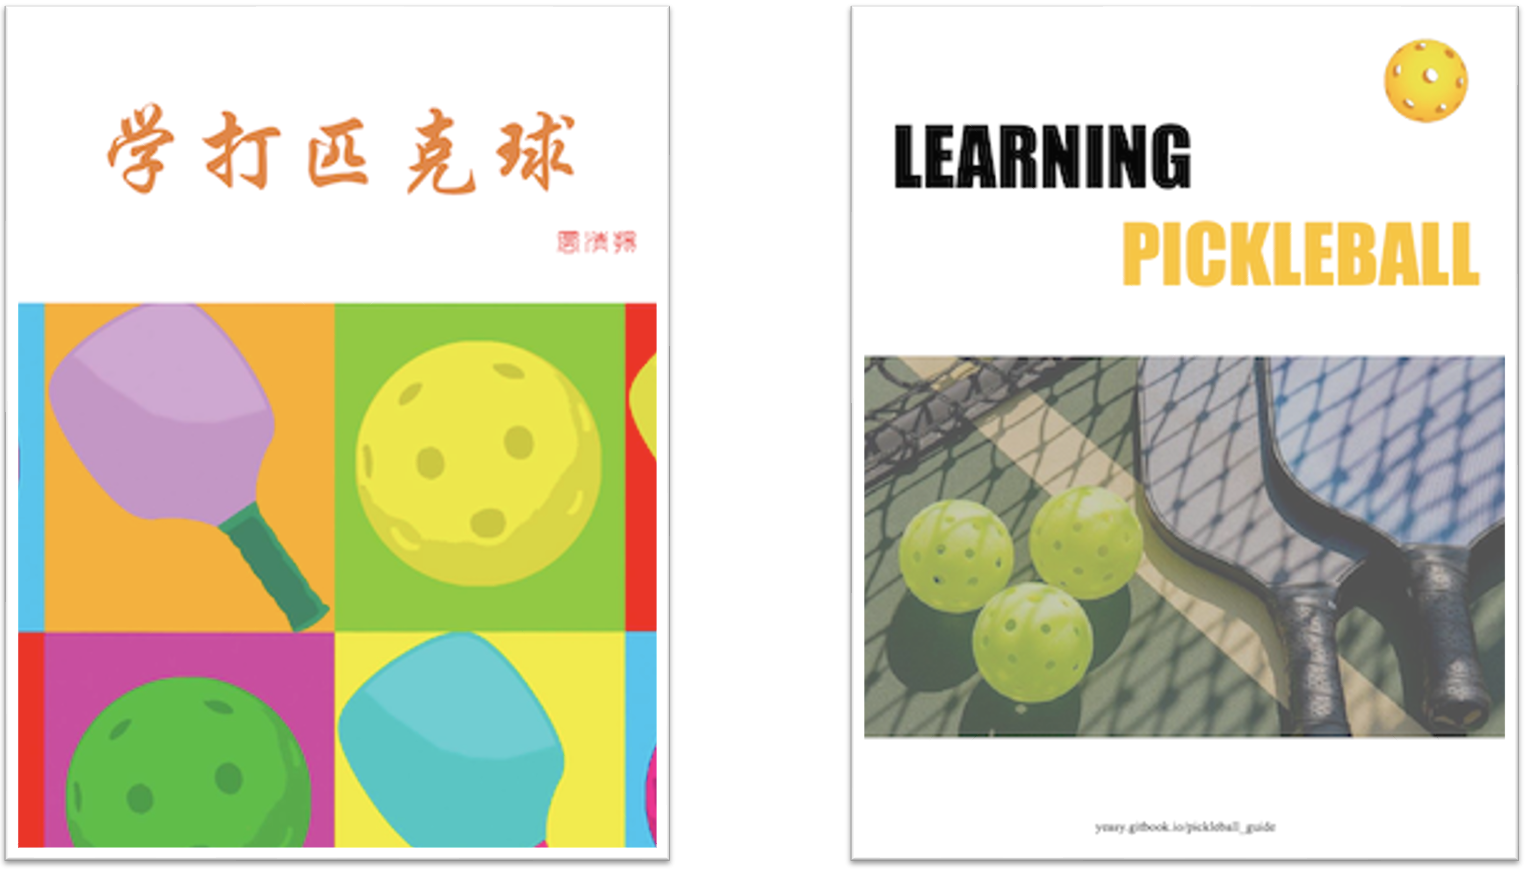
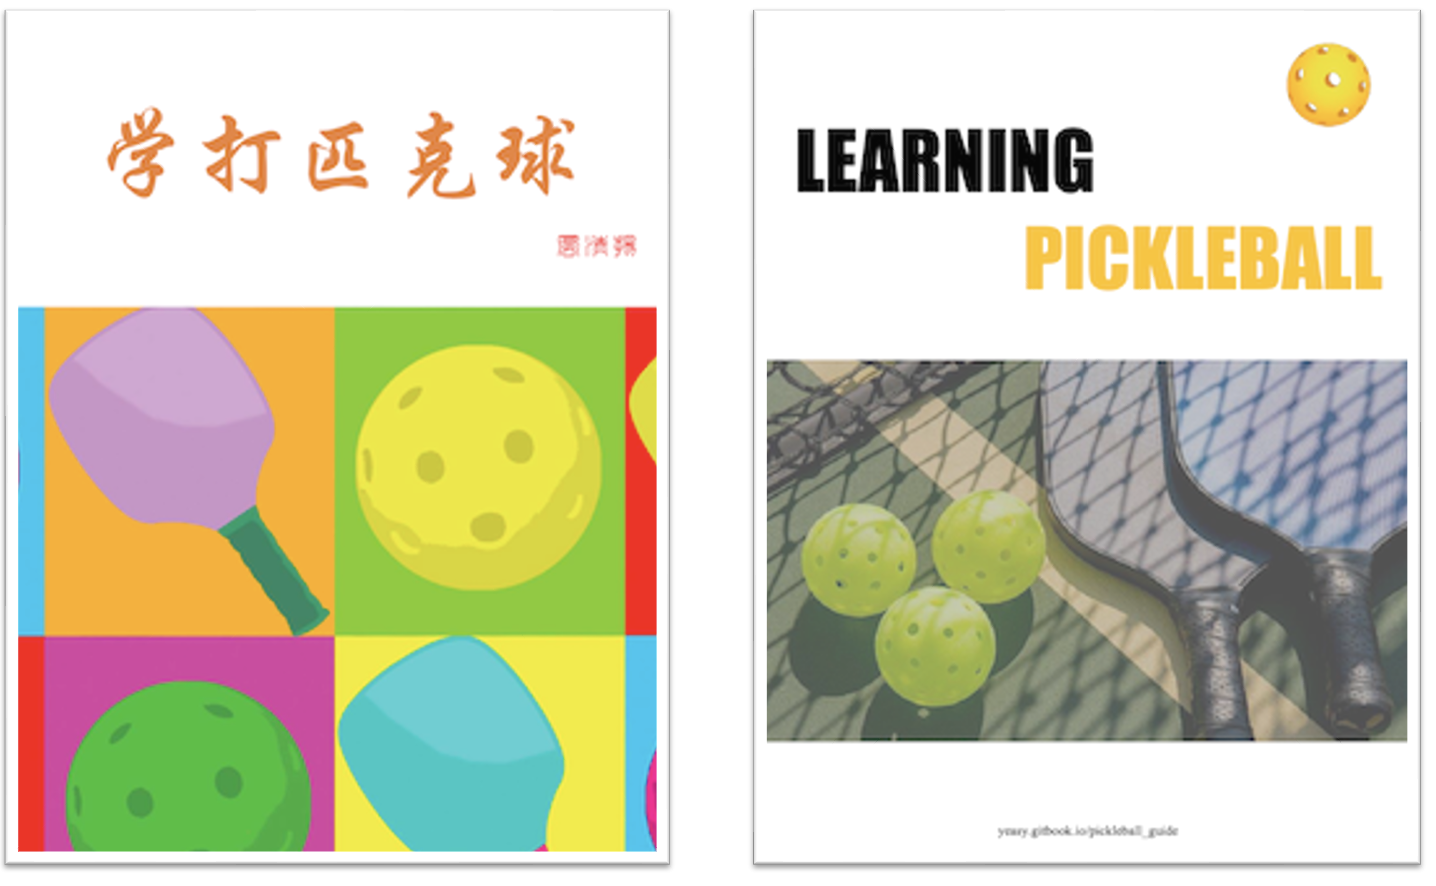
Refine terms

diff --git a/05_dink_cn.md b/05_dink_cn.md
@@ -1,40 +1,40 @@
-# Dink 技术
+# 网前吊球技术
 
-Dink 技术是匹克球比赛中最常见的相持技术，也是放网技术的前提。如果不掌握 Dink 技术，很难进阶较高水平。
+网前吊球技术是匹克球比赛中最常见的相持技术，也是后场吊球技术的前提。如果不掌握 网前吊球技术，很难进阶较高水平。
 
-## 什么是 Dink
+## 什么是网前吊球
 
-Dink 是指在网前将球放入对方非截击区内的动作。通常其弧线较平，过网不高（一个球高度为佳），落入对方非截击区的前半区或区域线附近。
+网前吊球是指在网前将球放入对方非截击区内的动作。通常其弧线较平，过网不高（一个球高度为佳），落入对方非截击区的前半区或区域线附近。
 
-![三种 Dink 线路](_images/dink-target.png)
+![三种网前吊球线路](_images/dink-target.png)
 
-Dink 在双打项目中经常使用。按照目标区域，大致可以分为如下三种：
+网前吊球在双打项目中经常使用。按照目标区域，大致可以分为如下三种：
 
 * 直线球：直线球是指将球打到自己所面向的对手区域。例如，自己站位在左半球，将球放入对方的右半区内。直线球通常更容易控制，但可能出现轨迹较高或落点较远情况，容易被对方进攻；
 * 斜线球：斜线球是指将球打到交叉的对手区域。例如，自己站位在左半球，将球打到对方的左半区内。斜线球距离更长，由于从球网中部过网，不容易被拦截，并且落地后有一定角度，使得对方更难处理。但是如果球落地弹起后超出场地边线较多，对方很容易进行绕过网柱进攻（ATP），要注意防护。
 * 中间球：中间球多用于双打比赛，是指将球放入对方两名球员中间空档。由于此时两人皆可以回球，会对及时判断造成一定的困扰。
 
-## 何时使用 Dink
+## 何时使用网前吊球
 
-当对方网前回球不太长或不太高时，此时己方没有较好的截击机会，可以等球触地弹起后使用 Dink。当对方回球较长但不容易进攻时，可以在球落地前以拦截方式进行 Dink。
+当对方网前回球不太长或不太高时，此时己方没有较好的截击机会，可以等球触地弹起后使用网前吊球。当对方回球较长但不容易进攻时，可以在球落地前以拦截方式进行网前吊球。
 
-Dink 首要目的是在没有好的进攻机会时，通过防守来避免对方有较好的进攻机会；同时调动对方，在相持中创造己方进攻机会。当对方回球过高、过长时，可以通过截击来进攻。
+网前吊球首要目的是在没有好的进攻机会时，通过防守来避免对方有较好的进攻机会；同时调动对方，在相持中创造己方进攻机会。当对方回球过高、过长时，可以通过截击来进攻。
 
-## 掌握 Dink
+## 掌握网前吊球
 
-好的 Dink 要避免回球过远过高，使得对方可以形成截击或下压。
+好的网前吊球要避免回球过远过高，使得对方可以形成截击或下压。
 
 击球前站位应当尽量靠近非截击区线，注意降低身体重心柔和击球，控制球轨迹过网不高，使球过网后下坠。
 
-![Dink 时要注意控制球的轨迹过网不高](_images/dink-low.png)
+![网前吊球时要注意控制球的轨迹过网不高](_images/dink-low.png)
 
-有多种方法可以打出 Dink球，最简单、高效的方法是推球。
+有多种方法可以打出 网前吊球，最简单、高效的方法是推球。
 
 推球时，应注意手腕要固定，控制球拍角度稳定指向网袋上侧。击球时无需引拍，直接通过前臂发力送出球，使球到达目的落点。为了保证出球轨迹稳定，在击球后胳膊继续推动球拍跟随 30 cm 左右。推球时注意以击打为主，不要刻意制造旋转。
 
 防守为目的时，球的落点尽量在非截击区的前半区，以避免对方进攻；调动对方时，可以将球打到非截击区线附近（如两侧外角附近）或对手脚下，迫使对方移动。
 
-掌握基础的推球 Dink 后，可以配合旋转，给对方回球增加难度，包括：
+掌握基础的推球网前吊球后，可以配合旋转，给对方回球增加难度，包括：
 
 * 上旋：下坠较快，落地后向前窜，同时会造成对方回球过长过高。上旋球轨迹较高，一般应以对角回球为主；
 * 下旋：落点较长，挤压对方接球空间，同时球弹跳较低，回球不易借力，容易下网；
@@ -42,18 +42,18 @@ Dink 首要目的是在没有好的进攻机会时，通过防守来避免对方
 
 ![不同旋转造成的飞行轨迹偏离](_images/spin-trajectory.png)
 
-球员在掌握旋转后，可以练习使用同一动作打出带有不同旋转的 Dink 球。
+球员在掌握旋转后，可以练习使用同一动作打出带有不同旋转的网前吊球。
 
 ## 训练方法
 
-Dink 球对手感要求较高。要适应不同节奏下对球的控制，可以通过如下训练提高Dink质量。
+网前吊球对手感要求较高。要适应不同节奏下对球的控制，可以通过如下训练提高网前吊球质量。
 
 * 颠球练习：使用球拍连续颠球，可以控制球的高度，控制球旋转或不旋转，并且可以采用正反拍面交替颠球。每次连续颠球应不少于 100 个，每天进行不少于 5 组练习。
-* 多球练习：陪练人员将球打到非截击区内，选手将球 Dink 到指定目标区域内，球过网不高。每次连续 Dink 应不少于 50 个，每天进行不少于 10 组练习。先练习直线球，稳定后再练习斜线球。
-* 动态练习：陪练人员和选手在网前水平移动，同时进行 Dink 训练。
-* Dink 中进攻练习：在 Dink 中找寻机会主动进攻，同时将对方的进攻球转为 Dink。
+* 多球练习：陪练人员将球打到非截击区内，球员将球打到指定目标区域内，球过网不高。每次连续网前吊球应不少于 50 个，每天进行不少于 10 组练习。先练习直线球，稳定后再练习斜线球。
+* 动态练习：陪练人员和选手在网前水平移动，同时进行网前吊球训练。
+*网前吊球中进攻练习：在网前吊球中找寻机会主动进攻，同时将对方的进攻球转为网前球。
 
-进行 Dink 训练时要注意：
+进行网前吊球训练时要注意：
 
 * 当没有好的进攻机会时，保持耐心，时刻观察对方站位和意图；
 * 身体随球移动，跑到球前进方向，但击球时重心要保持稳定；

diff --git a/06_drop_cn.md b/06_drop_cn.md
@@ -1,4 +1,4 @@
-# 放网技术
+# 后场吊球技术
 
 放网（Drop）技术，是匹克球最核心的技术之一，可以让选手从后场移动到网前。如果不掌握 Drop 技术，那么便无法进阶到较高水平。
 
@@ -6,11 +6,11 @@
 
 放网是指在中后场，将球回到对方非截击区域内的动作（尽量靠近前半区），同时自己要在对方回球前跑到前场或网前。
 
-可以简单理解放网球即为从中后场打出的 Dink 球。
+可以简单理解后场吊球即为从中后场打出的吊球。
 
 ![三种放网线路](_images/drop-target.png)
 
-从方向和落点上可将放网球分为**直线球**、**斜线球**和**中路球**三种：
+从方向和落点上可将后场吊球分为**直线球**、**斜线球**和**中路球**三种：
 
 * **直线球**：直线球轨迹较短，通常更容易控制过网，但容易出现轨迹较高或落点较远情况。同时，球落地比较早，留给自己的上网时间较短；
 * **斜线球**：斜线球是指将球回到交叉的对手区域。斜线球距离更长，球落地比较晚，留给自己的上网时间更充分。
@@ -32,7 +32,7 @@
 
 放网要避免回球过远、过高，使得对方可以截击球或持续击球到后场。
 
-相对于 Dink 球，放网球击球点更为靠前，向前发力更多。击打到球的瞬间，身体要处于稳定状态，避免重心不稳定造成击球动作晃动。击球结束后，身体顺势向前，准备跟随到网前。
+相对于网前吊球，后场吊球击球点更为靠前，向前发力更多。击打到球的瞬间，身体要处于稳定状态，避免重心不稳定造成击球动作晃动。击球结束后，身体顺势向前，准备跟随到网前。
 
 为了避免下网，球飞行轨迹的高点应该在网袋附近。
 
@@ -40,7 +40,7 @@
 
 ## 训练方法
 
-首先练习不带旋转的推球式放网球，然后练习带有旋转的放网球。注意要配合步法，击球后随球跑到网前。
+首先练习不带旋转的推球式后场吊球，然后练习带有旋转的后场吊球。注意要配合步法，击球后随球跑到网前。
 
 * 定点练习：从非截击区线向后退一步，进行定点放网训练。掌握后，再后退一步进行训练，直到退到后场线的后方。
 * 跑动练习：掌握定点放网训练后，可以进行跑动中放网训练。陪练将球打到后场，选手放网并跟随球跑动到网前形成相持。

diff --git a/10_lob_cn.md b/10_lob_cn.md
@@ -14,13 +14,13 @@
 
 * **后场挑球**：从后场位置将球挑到对方后场，多用于过渡来调节比赛节奏。为避免挑球出界，可以加适当上旋；
 * **中场挑球**：在中场位置将球挑到对方后场，具有较大的攻击性。例如当对方正快速跑到网前时，可以有效破坏对方的上网节奏；
-* **近网挑球**：当对方在网前回球较高时，或当对方 Dink 回球质量不高时，前场挑球可以迫使对方退到后场。往往会产生较好的下一拍进攻机会。
+* **近网挑球**：当对方在网前回球较高时，或当对方网前吊球回球质量不高时，前场挑球可以迫使对方退到后场。往往会产生较好的下一拍进攻机会。
 
 ## 何时使用挑球
 
 当对方站位或注意力在前场时，并且起跳或后退步法不够好时，可以使用挑球技术来迫使对方回到后场击球。
 
-挑球可以变被动为主动，也可以在 Dink 、抽球等环节使用，以主动创造进攻机会。
+挑球可以变被动为主动，也可以在网前吊球、抽球等环节使用，以主动创造进攻机会。
 
 挑球后要及时移动到网前，准备待对方回球过高时进攻。
 
@@ -30,16 +30,16 @@
 
 进行挑球时要注意：
 
-* 网前挑球时，动作要尽量与 Dink 球一致，避免对方预判截击。
+* 网前挑球时，动作要尽量与网前吊球一致，避免对方预判截击。
 * 控制球的飞行高度，刚好过对方头顶截击为佳。
 * 控制球的落点，尽量接近底线附近。通常可以偏反手位，对方更难处理。
 
-当对方挑球时，应当首先快速判断是否能直接跳杀截击。如果不能，应当随球迅速跑向后场球飞行的前方，如果球不出界，等球落地再弹起后击打球。回球应当以放网球为主。
+当对方挑球时，应当首先快速判断是否能直接跳杀截击。如果不能，应当随球迅速跑向后场球飞行的前方，如果球不出界，等球落地再弹起后击打球。回球应当以后场吊球为主。
 
 ## 应对挑球
 当对方挑球时，应当首先快速判断是否能直接跳杀截击。如能截杀，应当快速跳起，利用手腕转动和手指抓紧的力量将球下压，目标可为对方脚下位置或空挡处。
 
-如果不能，应当快速侧身，随球迅速跑向球落地位置的前方，等球落地弹起后击打球。回球应当以放网球为主，并且及时随球跑到网前。
+如果不能，应当快速侧身，随球迅速跑向球落地位置的前方，等球落地弹起后击打球。回球应当以后场吊球为主，并且及时随球跑到网前。
 
 注意侧身时要直接蹬地，不要将非持拍侧脚先向前一步，否则很容易造成触碰非截击区而失分。这在专业比赛中也屡见不鲜。如下图所示。
 

diff --git a/13_net_battle_cn.md b/13_net_battle_cn.md
@@ -4,9 +4,9 @@
 
 ## 网前进攻
 
-网前进攻指双方球员在网前 Dink 过程中，一方主动将球打出较高速度，攻击对方。网前进攻通常采用截击方式。
+网前进攻指双方球员在网前吊球过程中，一方主动将球打出较高速度，攻击对方。网前进攻通常采用截击方式。
 
-首先要选择正确的进攻时机。双方球员在网前通常会以 Dink 球为主。当对方打出防守质量较高的Dink球时，由于球飞行轨迹较低、落点较短，此时进攻往往会造成球过网速度较慢，且向上飞行，易被对方拦截。当对方来球飞行轨迹较高，或落点较长时，进攻得分的可能性较大。
+首先要选择正确的进攻时机。双方球员在网前通常会以吊球为主。当对方打出防守质量较高的网前吊球时，由于球飞行轨迹较低、落点较短，此时进攻往往会造成球过网速度较慢，且向上飞行，易被对方拦截。当对方来球飞行轨迹较高，或落点较长时，进攻得分的可能性较大。
 
 另外，要注意观察对方的站位和意图。当对方站位稳定靠近网前，且准备好拦截进攻球时，进攻被防守概率较大；反之，若对方站位较偏，身体不稳定，或离网较远，此时进攻得分概率较大。
 
@@ -30,7 +30,7 @@
 * 球拍要在身前击球，保持身体面向来球；
 * 防守动作要稳定，击球瞬间抓紧球拍；
 * 除非防守机会较好，可以发力反击，否则以借力为主；
-* 确保球飞行轨迹较低，优先考虑重新Dink球到网前；
+* 确保球飞行轨迹较低，优先考虑重新吊球到网前；
 * 防守回球以两人之间位置为主，避免出界。
 
 ## 训练方法
@@ -39,4 +39,4 @@
 
 * 多球进攻练习：一方球员重复给出固定位置的网前球，另一方球员进行进攻；
 * 多球防守练习：一方球员重复给出较快的平击球，模拟网前进攻球，另一方球员进行防守；
-* 交互练习：双方球员在网前 Dink ，一方球员尝试进攻，另一方球员尝试进行防守。 
+* 交互练习：双方球员在网前吊球，一方球员尝试进攻，另一方球员尝试进行防守。 

diff --git a/08_volley_cn.md b/08_volley_cn.md
@@ -9,7 +9,7 @@
 一般根据截击发生的位置，可以分为**后场截击**、**中场截击**、**近网截击**。
 
 * **后场截击**：对方给出后场高球时，可以通过头顶区点杀截击来逼迫对方后退。
-* **中场截击**：中场截击多为己方在打出第三拍放网球时，对方回出长球。此时应当柔和发力，将球借力顺势放入对方网前，同时快速移动到网前。
+* **中场截击**：中场截击多为己方在打出第三拍后场吊球时，对方回出长球。此时应当柔和发力，将球借力顺势放入对方网前，同时快速移动到网前。
 * **近网截击**：对方控球不到位，给出网前高球，可以通过快速击打球来获得比分。近网球当过网不高时，要避免发力过大造成出界，可以轻推球到后场或柔和发力尝试进攻。网前截击要注意避免脚触碰非截击区（包括边线）。
 
 另外，根据截击时球的高度不同，可以分为平抽截击、高球截击和头顶上方截击。
@@ -20,7 +20,7 @@
 
 当对方未在网前，且回球较高时，容易造成好的进攻机会，此时可以通过截击来压迫对方在后场或直接得分。
 
-当对方在网前 Dink ，回球较远或较高时，可以通过截击来尝试进攻得分。
+当对方在网前吊球，回球较远或较高时，可以通过截击来尝试进攻得分。
 
 ## 掌握截击
 
@@ -42,7 +42,7 @@
 
 当对方从较高位置下压截击，或来球离身体较远时，可以等球触地跳起后再击球，此时多采用放网或抽球方式。当对方来球较快时，注意以借力为主，让球高抛过网后落下，落点可以尽量靠近网前，或者挑高到后场。
 
-防守截击球后，要尝试随球向前移动。当自己回球质量较高时，可以直接移动到网前，准备进入 Dink 环节。否则，在中场准备过渡后二次上网。
+防守截击球后，要尝试随球向前移动。当自己回球质量较高时，可以直接移动到网前，准备进入网前吊球环节。否则，在中场准备过渡后二次上网。
 
 ## 训练方法
 

diff --git a/20_faq_cn.md b/20_faq_cn.md
@@ -14,7 +14,7 @@
 
 **答**：这个问题没有固定的答案，要看你队友第三拍回球的质量。
 
-如果队友第三拍质量很高，比如放网球很短很低，那么你和队友都可以大胆跑到网前；反之如果队友第三拍给出较高较长的网前球，那么不要着急往前跑。
+如果队友第三拍质量很高，比如后场吊球很短很低，那么你和队友都可以大胆跑到网前；反之如果队友第三拍给出较高较长的网前球，那么不要着急往前跑。
 
 通常，可以尝试从后场向前走一步，同时观察队友回球质量再作调整。
 
@@ -54,7 +54,7 @@
 
 **答**：两者之间的关键差异主要包括：
 
-首先是**一致性**。专业球员对球的控制更加稳定。同样打一个放网球，业余球员打十次可能失误一次，专业球员可能一百次才失误一次。总体来看，业余球员的非受迫失误率要高不少。
+首先是**一致性**。专业球员对球的控制更加稳定。同样打一个后场吊球，业余球员打十次可能失误一次，专业球员可能一百次才失误一次。总体来看，业余球员的非受迫失误率要高不少。
 
 其次是**速度**。当比赛节奏较慢的时候，业余球员和专业球员表现似乎差不多；但是当节奏加快时候，业余球员往往就跟不上了，失误会大量增多。
 
@@ -74,7 +74,7 @@
 * **拍面厚度**：拍面越厚，对击球时震动吸收越好，甜区往往越大。初学者建议考虑厚度至少 14 mm 的球拍。
 * **拍面粗糙度**：拍面越粗糙，越容易摩擦球制造旋转，但是反过来也越容易受到球旋转的影响。初学者建议考虑摩擦力不太大的拍面。
 
-另外，现代球拍的拍体材料通常为高分子聚合物构造的蜂窝结构，包括 Polymer（软弹）、Nomex（刚性尼龙，偏硬）。早期还有木质或铝合金等材质。表面材料包括玻璃纤维（软，甜区往往较小）、石墨纤维、碳纤维（硬，甜区往往较大）等。目前，主流球拍多采用高分组聚合物拍体和碳纤维表面。
+市场占有度较高的球拍品牌包括 Selkirk、Engage、Gearbox 和 Joola。另外，现代球拍的拍体材料通常为高分子聚合物构造的蜂窝结构，包括 Polymer（软弹）、Nomex（刚性尼龙，偏硬）。早期还有木质或铝合金等材质。表面材料包括玻璃纤维（软，甜区往往较小）、石墨纤维、碳纤维（硬，甜区往往较大）等。目前，主流球拍多采用高分组聚合物拍体和碳纤维表面。
 
 ## [Q8] 双打中两人中间的球该怎么处理呢？
 

diff --git a/SUMMARY.md b/SUMMARY.md
@@ -28,8 +28,8 @@
 * [第 2 章 - 热身、放松与体能训练](02_fitness_cn.md)
 * [第 3 章 - 持拍与击球发力](03_hold_paddle_cn.md)
 * [第 4 章 - 发球与接发球](04_serve_cn.md)
-* [第 5 章 - Dink 技术](05_dink_cn.md)
-* [第 6 章 - 放网技术](06_drop_cn.md)
+* [第 5 章 - 网前吊球技术](05_dink_cn.md)
+* [第 6 章 - 后场吊球技术](06_drop_cn.md)
 * [第 7 章 - 抽球技术](07_drive_cn.md)
 * [第 8 章 - 截击技术](08_volley_cn.md)
 * [第 9 章 - 削球技术](09_chop_cn.md)

diff --git a/README.md b/README.md
@@ -1,6 +1,6 @@
 # Learning Pickleball 学打匹克球
 
-**v0.9.9**
+**v1.0.0-alphas**
 
 ![Learning Pickleball](_images/cover.png)
 
@@ -17,7 +17,6 @@ Each chapter is focused on a specific topic, players can learn them in order. Ea
 * [Read on Gitbook](https://yeasy.gitbook.io/learning_pickleball/01_background_en)
 * [Read on Github](https://github.com/yeasy/learning_pickleball/blob/main/SUMMARY.md)
 * [Download PDF Version](https://github.com/yeasy/learning_pickleball/releases/)
-* [Pickleball Academy@Facebook](https://www.facebook.com/groups/pickleballacademy)
 
 匹克球是一项正在风靡全球的新兴运动，它融合了网球、羽毛球、乒乓球等运动的众多特点，具有上手容易、运动量适中、娱乐性强等优势，吸引了越来越多的爱好者。
 

diff --git a/03_hold_paddle_cn.md b/03_hold_paddle_cn.md
@@ -47,7 +47,7 @@
 
 注意，为了有效传递力量，在转腰挥动胳膊过程中，身体各部分（特别是胳膊和手指）应先处于放松状态，发力瞬间才收紧。从放松到收紧的过程，可以使用较小的动作产生很大的力量。
 
-在诸如 Dink 或截击等场景下，不需要做出蹬地、转腰、挥拍的完整发力过程，但其核心是一致的，仍然要使用源自身体的力量，通过由松到紧的过程发力。
+在诸如网前吊球或截击等场景下，不需要做出蹬地、转腰、挥拍的完整发力过程，但其核心是一致的，仍然要使用源自身体的力量，通过由松到紧的过程发力。
 
 ## 击球训练
 

diff --git a/11_footwork_cn.md b/11_footwork_cn.md
@@ -22,7 +22,7 @@
 
 双打中典型使用步法场景包括：
 
-* Dink 时随球左右前后跑动；
+* 网前吊球时随球左右前后跑动；
 * 放网之后随球快速跑到网前；
 * 对方挑球时快速后退跳杀，或跑到后场；
 * 己方回球质量不高时，主动后退防守对方截击。

diff --git a/12_spin_cn.md b/12_spin_cn.md
@@ -17,7 +17,7 @@
 旋转的主要目的是控制回球轨迹和落点，可在如下场景中考虑使用旋转：
 
 * 发球：通过添加旋转造成接球方对球飞行轨迹产生误判；
-* Dink 或吊球：通过不同旋转造成对方击球位置不佳，回球过高或下网；
+* 吊球：通过不同旋转造成对方击球位置不佳，回球过高或下网；
 * 抽球或回后场球：通过上旋避免球路过长或出界；
 * 截击：通过旋转造成对方预判位置失误；
 * 绕网柱击球（ATP）：通过侧旋使得在场外侧的击球，落到对方场内。